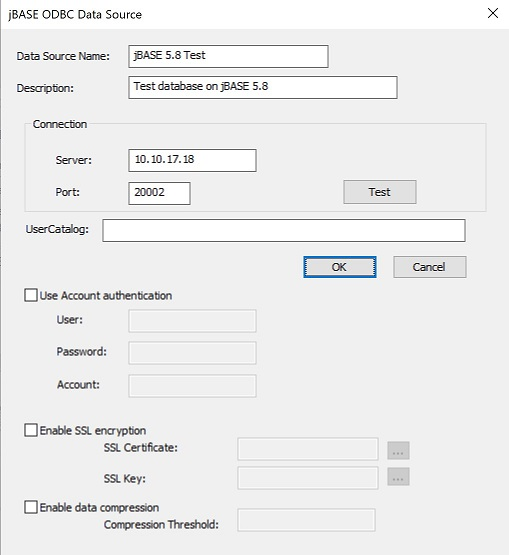
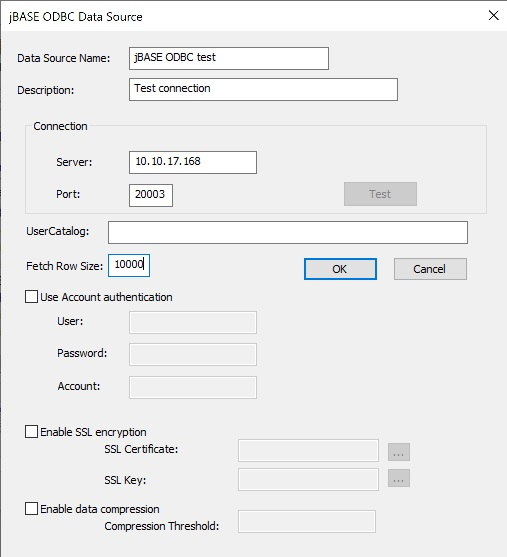
Update documentation for Fetch Row Size

diff --git a/site/jbase/connectivity/ODBC/odbc-installation-configuration/README.md b/site/jbase/connectivity/ODBC/odbc-installation-configuration/README.md
@@ -100,6 +100,9 @@ The **User Catalog** refers to the [JSQLFILENAME_CATALOG](../../../environment-v
 
 For more information on the implications of the other settings (**User**, **Password**, **Account**, **SSL**, **Compression**) refer to the following [link](../../jagent/introduction-to-jremote/#additional-connection-properties).
 
+### Fetch Row Size
+The default fetch row size is 1000, whereby result sets are accumulated in batches of 1000 before transmitting back to the ODBC connection. You may see performance benefits by increasing this value (e.g. in the example above a value of **10000** was used).
+
 ### Connection strings
 
 Connection strings, as defined by the ODBC SQL CLI, specify the connection parameters supplied to the server when attempting to establish a connection.
